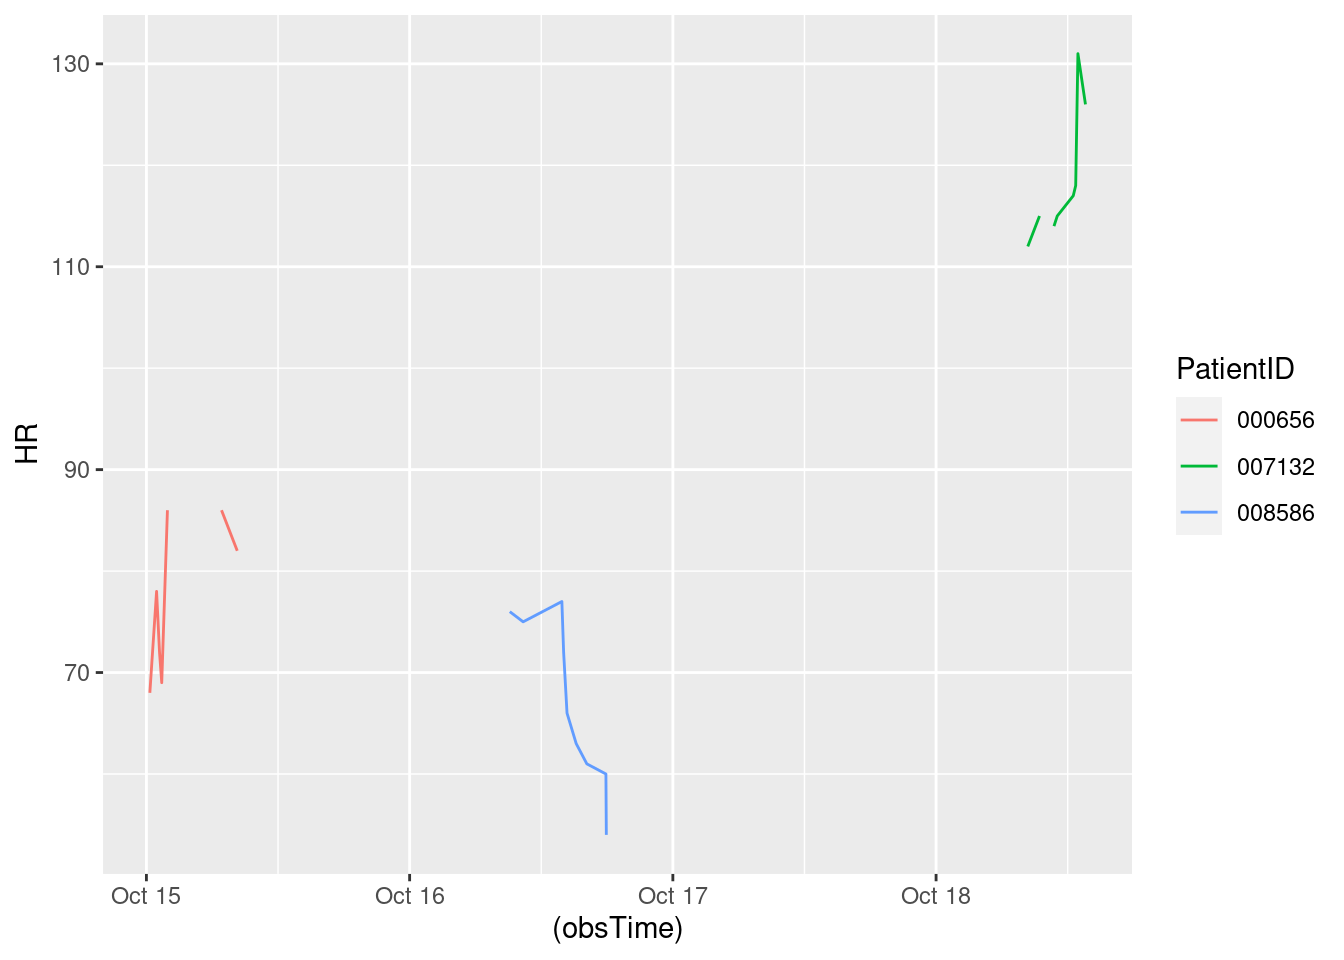
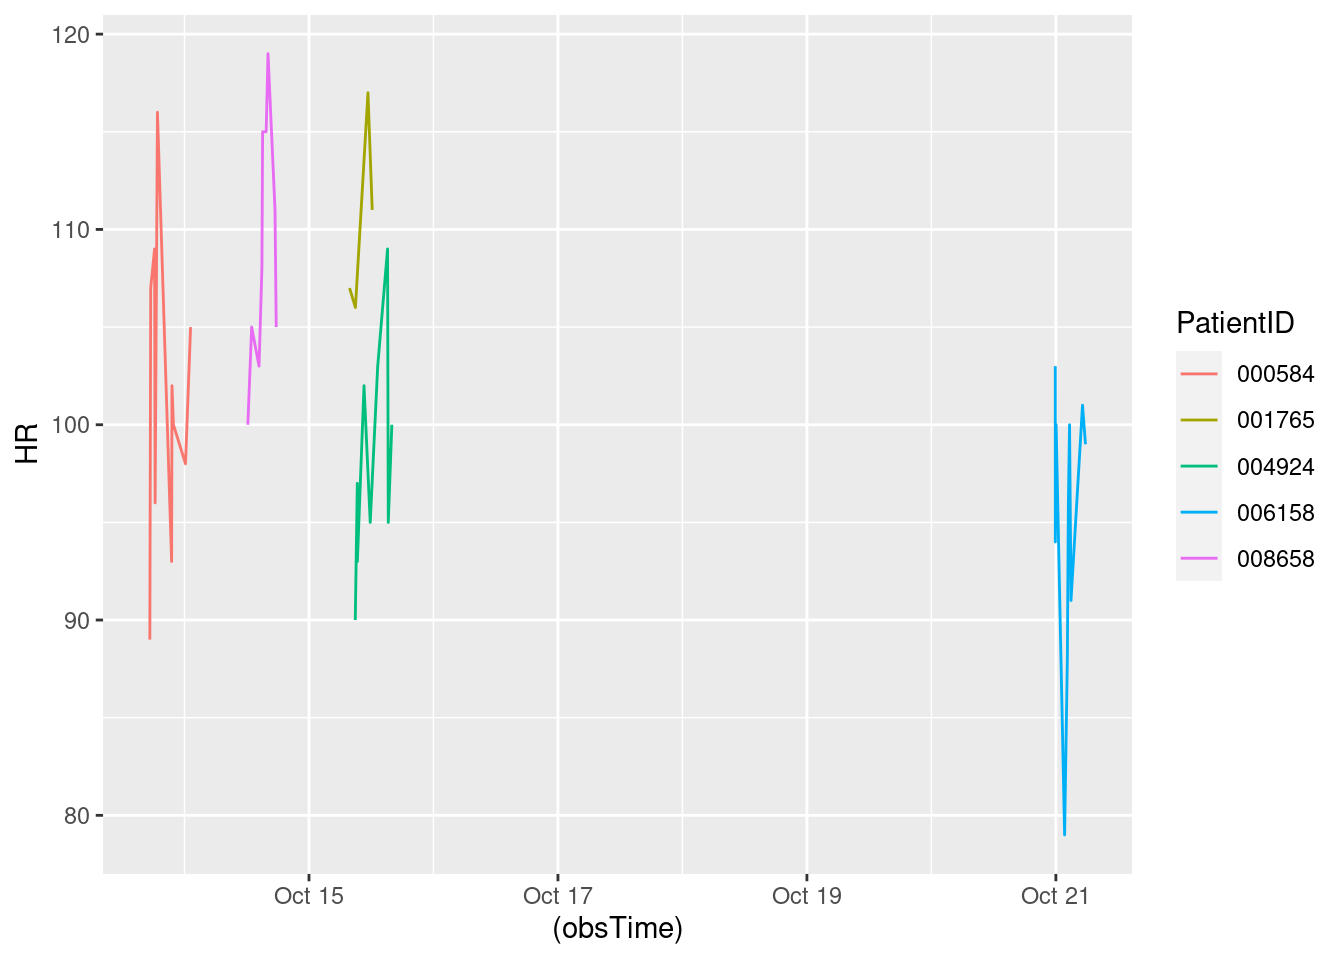
Updated report

diff --git a/HW7.html b/HW7.html
@@ -150,7 +150,7 @@ The following object is masked from 'package:purrr':
 </div>
 <div class="sourceCode cell-code" id="cb8"><pre class="sourceCode r code-with-copy"><code class="sourceCode r"><span id="cb8-1"><a href="#cb8-1" aria-hidden="true" tabindex="-1"></a><span class="fu">toc</span>()</span></code><button title="Copy to Clipboard" class="code-copy-button"><i class="bi"></i></button></pre></div>
 <div class="cell-output cell-output-stdout">
-<pre><code>3.267 sec elapsed</code></pre>
+<pre><code>3.334 sec elapsed</code></pre>
 </div>
 <div class="sourceCode cell-code" id="cb10"><pre class="sourceCode r code-with-copy"><code class="sourceCode r"><span id="cb10-1"><a href="#cb10-1" aria-hidden="true" tabindex="-1"></a><span class="fu">tic</span>()</span>
 <span id="cb10-2"><a href="#cb10-2" aria-hidden="true" tabindex="-1"></a>test1<span class="ot">=</span><span class="fu">makeSepsisDataset</span>(<span class="at">n=</span><span class="dv">50</span>,<span class="at">read_fn =</span> <span class="st">"read_delim"</span>)</span>
@@ -160,7 +160,7 @@ The following object is masked from 'package:purrr':
 </div>
 <div class="sourceCode cell-code" id="cb12"><pre class="sourceCode r code-with-copy"><code class="sourceCode r"><span id="cb12-1"><a href="#cb12-1" aria-hidden="true" tabindex="-1"></a><span class="fu">toc</span>()</span></code><button title="Copy to Clipboard" class="code-copy-button"><i class="bi"></i></button></pre></div>
 <div class="cell-output cell-output-stdout">
-<pre><code>12.358 sec elapsed</code></pre>
+<pre><code>13.487 sec elapsed</code></pre>
 </div>
 <div class="sourceCode cell-code" id="cb14"><pre class="sourceCode r code-with-copy"><code class="sourceCode r"><span id="cb14-1"><a href="#cb14-1" aria-hidden="true" tabindex="-1"></a><span class="fu">tic</span>()</span>
 <span id="cb14-2"><a href="#cb14-2" aria-hidden="true" tabindex="-1"></a>test1<span class="ot">=</span><span class="fu">makeSepsisDataset</span>(<span class="at">n=</span><span class="dv">100</span>,<span class="at">read_fn =</span> <span class="st">"fread"</span>)</span>
@@ -170,7 +170,7 @@ The following object is masked from 'package:purrr':
 </div>
 <div class="sourceCode cell-code" id="cb16"><pre class="sourceCode r code-with-copy"><code class="sourceCode r"><span id="cb16-1"><a href="#cb16-1" aria-hidden="true" tabindex="-1"></a><span class="fu">toc</span>()</span></code><button title="Copy to Clipboard" class="code-copy-button"><i class="bi"></i></button></pre></div>
 <div class="cell-output cell-output-stdout">
-<pre><code>5.415 sec elapsed</code></pre>
+<pre><code>5.951 sec elapsed</code></pre>
 </div>
 <div class="sourceCode cell-code" id="cb18"><pre class="sourceCode r code-with-copy"><code class="sourceCode r"><span id="cb18-1"><a href="#cb18-1" aria-hidden="true" tabindex="-1"></a><span class="fu">tic</span>()</span>
 <span id="cb18-2"><a href="#cb18-2" aria-hidden="true" tabindex="-1"></a>test1<span class="ot">=</span><span class="fu">makeSepsisDataset</span>(<span class="at">n=</span><span class="dv">100</span>,<span class="at">read_fn =</span> <span class="st">"read_delim"</span>)</span>
@@ -180,7 +180,7 @@ The following object is masked from 'package:purrr':
 </div>
 <div class="sourceCode cell-code" id="cb20"><pre class="sourceCode r code-with-copy"><code class="sourceCode r"><span id="cb20-1"><a href="#cb20-1" aria-hidden="true" tabindex="-1"></a><span class="fu">toc</span>()</span></code><button title="Copy to Clipboard" class="code-copy-button"><i class="bi"></i></button></pre></div>
 <div class="cell-output cell-output-stdout">
-<pre><code>20.785 sec elapsed</code></pre>
+<pre><code>23.078 sec elapsed</code></pre>
 </div>
 <div class="sourceCode cell-code" id="cb22"><pre class="sourceCode r code-with-copy"><code class="sourceCode r"><span id="cb22-1"><a href="#cb22-1" aria-hidden="true" tabindex="-1"></a><span class="fu">tic</span>()</span>
 <span id="cb22-2"><a href="#cb22-2" aria-hidden="true" tabindex="-1"></a>test1<span class="ot">=</span><span class="fu">makeSepsisDataset</span>(<span class="at">n=</span><span class="dv">500</span>,<span class="at">read_fn =</span> <span class="st">"fread"</span>)</span>
@@ -190,7 +190,7 @@ The following object is masked from 'package:purrr':
 </div>
 <div class="sourceCode cell-code" id="cb24"><pre class="sourceCode r code-with-copy"><code class="sourceCode r"><span id="cb24-1"><a href="#cb24-1" aria-hidden="true" tabindex="-1"></a><span class="fu">toc</span>()</span></code><button title="Copy to Clipboard" class="code-copy-button"><i class="bi"></i></button></pre></div>
 <div class="cell-output cell-output-stdout">
-<pre><code>27.325 sec elapsed</code></pre>
+<pre><code>29.471 sec elapsed</code></pre>
 </div>
 <div class="sourceCode cell-code" id="cb26"><pre class="sourceCode r code-with-copy"><code class="sourceCode r"><span id="cb26-1"><a href="#cb26-1" aria-hidden="true" tabindex="-1"></a><span class="fu">tic</span>()</span>
 <span id="cb26-2"><a href="#cb26-2" aria-hidden="true" tabindex="-1"></a>test1<span class="ot">=</span><span class="fu">makeSepsisDataset</span>(<span class="at">n=</span><span class="dv">500</span>,<span class="at">read_fn =</span> <span class="st">"read_delim"</span>)</span>
@@ -200,7 +200,7 @@ The following object is masked from 'package:purrr':
 </div>
 <div class="sourceCode cell-code" id="cb28"><pre class="sourceCode r code-with-copy"><code class="sourceCode r"><span id="cb28-1"><a href="#cb28-1" aria-hidden="true" tabindex="-1"></a><span class="fu">toc</span>()</span></code><button title="Copy to Clipboard" class="code-copy-button"><i class="bi"></i></button></pre></div>
 <div class="cell-output cell-output-stdout">
-<pre><code>103.197 sec elapsed</code></pre>
+<pre><code>116.292 sec elapsed</code></pre>
 </div>
 </div>
 <p>Problem 3: Speed reading</p>
@@ -242,7 +242,7 @@ dttm (1): obsTime
 <div class="sourceCode cell-code" id="cb35"><pre class="sourceCode r code-with-copy"><code class="sourceCode r"><span id="cb35-1"><a href="#cb35-1" aria-hidden="true" tabindex="-1"></a><span class="co">#Sys.Date()</span></span>
 <span id="cb35-2"><a href="#cb35-2" aria-hidden="true" tabindex="-1"></a><span class="fu">Sys.time</span>()</span></code><button title="Copy to Clipboard" class="code-copy-button"><i class="bi"></i></button></pre></div>
 <div class="cell-output cell-output-stdout">
-<pre><code>[1] "2023-10-13 16:25:02 UTC"</code></pre>
+<pre><code>[1] "2023-10-13 17:19:13 UTC"</code></pre>
 </div>
 <div class="sourceCode cell-code" id="cb37"><pre class="sourceCode r code-with-copy"><code class="sourceCode r"><span id="cb37-1"><a href="#cb37-1" aria-hidden="true" tabindex="-1"></a>dfnew<span class="ot">=</span>df <span class="sc">%&gt;%</span><span class="fu">subset</span>(SepsisLabel<span class="sc">==</span><span class="dv">1</span>)</span>
 <span id="cb37-2"><a href="#cb37-2" aria-hidden="true" tabindex="-1"></a></span>
@@ -257,18 +257,23 @@ dttm (1): obsTime
 <span id="cb37-11"><a href="#cb37-11" aria-hidden="true" tabindex="-1"></a></span>
 <span id="cb37-12"><a href="#cb37-12" aria-hidden="true" tabindex="-1"></a><span class="fu">print</span>(res)</span></code><button title="Copy to Clipboard" class="code-copy-button"><i class="bi"></i></button></pre></div>
 <div class="cell-output cell-output-stdout">
-<pre><code># A tibble: 3 × 7
-# Groups:   PatientID [3]
+<pre><code># A tibble: 5 × 7
+# Groups:   PatientID [5]
   PatientID ICULOS    HR  Temp  Resp SepsisLabel obsTime            
   &lt;chr&gt;      &lt;int&gt; &lt;int&gt; &lt;dbl&gt; &lt;int&gt;       &lt;int&gt; &lt;dttm&gt;             
-1 000656        40    82  NA      17           1 2023-10-15 08:16:56
-2 007132       120   126  NA      16           1 2023-10-18 13:37:13
-3 008586        75    54  36.3    21           1 2023-10-16 17:56:01</code></pre>
+1 000584         9   105  36.8    21           1 2023-10-14 01:10:33
+2 001765        43   111  36.3    21           1 2023-10-15 12:11:29
+3 004924        48   100  NA      28           1 2023-10-15 15:58:25
+4 006158       181    99  NA      19           1 2023-10-21 05:42:20
+5 008658        25   105  NA      31           1 2023-10-14 17:41:06</code></pre>
 </div>
 </div>
 <div class="cell">
 <div class="sourceCode cell-code" id="cb39"><pre class="sourceCode r code-with-copy"><code class="sourceCode r"><span id="cb39-1"><a href="#cb39-1" aria-hidden="true" tabindex="-1"></a>dfnew <span class="sc">%&gt;%</span></span>
 <span id="cb39-2"><a href="#cb39-2" aria-hidden="true" tabindex="-1"></a>  <span class="fu">ggplot</span>()<span class="sc">+</span><span class="fu">geom_line</span>(<span class="fu">aes</span>(<span class="at">y=</span>HR,<span class="at">x=</span>(obsTime),<span class="at">color=</span>PatientID))</span></code><button title="Copy to Clipboard" class="code-copy-button"><i class="bi"></i></button></pre></div>
+<div class="cell-output cell-output-stderr">
+<pre><code>Warning: Removed 6 rows containing missing values (`geom_line()`).</code></pre>
+</div>
 <div class="cell-output-display">
 <p><img src="HW7_files/figure-html/unnamed-chunk-6-1.png" class="img-fluid" width="672"></p>
 </div>
@@ -277,7 +282,7 @@ dttm (1): obsTime
 <section id="display-the-most-recent-data" class="level2">
 <h2 class="anchored" data-anchor-id="display-the-most-recent-data">Display the most recent data</h2>
 <div class="cell">
-<div class="sourceCode cell-code" id="cb40"><pre class="sourceCode r code-with-copy"><code class="sourceCode r"><span id="cb40-1"><a href="#cb40-1" aria-hidden="true" tabindex="-1"></a>most_recent_data</span></code><button title="Copy to Clipboard" class="code-copy-button"><i class="bi"></i></button></pre></div>
+<div class="sourceCode cell-code" id="cb41"><pre class="sourceCode r code-with-copy"><code class="sourceCode r"><span id="cb41-1"><a href="#cb41-1" aria-hidden="true" tabindex="-1"></a>most_recent_data</span></code><button title="Copy to Clipboard" class="code-copy-button"><i class="bi"></i></button></pre></div>
 <div class="cell-output cell-output-stdout">
 <pre><code># A tibble: 50 × 7
 # Groups:   PatientID [50]
@@ -300,32 +305,32 @@ dttm (1): obsTime
 <section id="calculate-the-difference" class="level2">
 <h2 class="anchored" data-anchor-id="calculate-the-difference">Calculate the difference</h2>
 <div class="cell">
-<div class="sourceCode cell-code" id="cb42"><pre class="sourceCode r code-with-copy"><code class="sourceCode r"><span id="cb42-1"><a href="#cb42-1" aria-hidden="true" tabindex="-1"></a><span class="fu">library</span>(dplyr)</span>
-<span id="cb42-2"><a href="#cb42-2" aria-hidden="true" tabindex="-1"></a><span class="fu">library</span>(tidyr)</span>
-<span id="cb42-3"><a href="#cb42-3" aria-hidden="true" tabindex="-1"></a><span class="fu">library</span>(knitr)</span>
-<span id="cb42-4"><a href="#cb42-4" aria-hidden="true" tabindex="-1"></a>get_observation_data <span class="ot">&lt;-</span> <span class="cf">function</span>(data, n, column_suffix) {</span>
-<span id="cb42-5"><a href="#cb42-5" aria-hidden="true" tabindex="-1"></a>  data <span class="sc">%&gt;%</span></span>
-<span id="cb42-6"><a href="#cb42-6" aria-hidden="true" tabindex="-1"></a>    <span class="fu">group_by</span>(PatientID) <span class="sc">%&gt;%</span></span>
-<span id="cb42-7"><a href="#cb42-7" aria-hidden="true" tabindex="-1"></a>    <span class="fu">slice_max</span>(<span class="at">order_by =</span> obsTime, <span class="at">n =</span> n) <span class="sc">%&gt;%</span></span>
-<span id="cb42-8"><a href="#cb42-8" aria-hidden="true" tabindex="-1"></a>    <span class="fu">select</span>(<span class="sc">-</span><span class="fu">c</span>(ICULOS, SepsisLabel, obsTime)) <span class="sc">%&gt;%</span></span>
-<span id="cb42-9"><a href="#cb42-9" aria-hidden="true" tabindex="-1"></a>    <span class="fu">rename_at</span>(<span class="fu">vars</span>(HR, Temp, Resp),</span>
-<span id="cb42-10"><a href="#cb42-10" aria-hidden="true" tabindex="-1"></a>              <span class="fu">list</span>(<span class="sc">~</span><span class="fu">paste0</span>(., <span class="st">"_"</span>, column_suffix)))</span>
-<span id="cb42-11"><a href="#cb42-11" aria-hidden="true" tabindex="-1"></a>}</span>
-<span id="cb42-12"><a href="#cb42-12" aria-hidden="true" tabindex="-1"></a></span>
-<span id="cb42-13"><a href="#cb42-13" aria-hidden="true" tabindex="-1"></a></span>
-<span id="cb42-14"><a href="#cb42-14" aria-hidden="true" tabindex="-1"></a></span>
-<span id="cb42-15"><a href="#cb42-15" aria-hidden="true" tabindex="-1"></a></span>
-<span id="cb42-16"><a href="#cb42-16" aria-hidden="true" tabindex="-1"></a>last_obs <span class="ot">&lt;-</span> <span class="fu">get_observation_data</span>(new_data, <span class="dv">1</span>, <span class="st">"last"</span>)</span>
-<span id="cb42-17"><a href="#cb42-17" aria-hidden="true" tabindex="-1"></a>penultimate_obs <span class="ot">&lt;-</span> <span class="fu">get_observation_data</span>(new_data, <span class="dv">2</span>, <span class="st">"penult"</span>)</span>
-<span id="cb42-18"><a href="#cb42-18" aria-hidden="true" tabindex="-1"></a>joined_data <span class="ot">&lt;-</span> <span class="fu">full_join</span>(last_obs, penultimate_obs) <span class="sc">%&gt;%</span></span>
-<span id="cb42-19"><a href="#cb42-19" aria-hidden="true" tabindex="-1"></a>  <span class="fu">transmute</span>(PatientID,</span>
-<span id="cb42-20"><a href="#cb42-20" aria-hidden="true" tabindex="-1"></a>            <span class="st">`</span><span class="at">Temperature change</span><span class="st">`</span> <span class="ot">=</span> Temp_last <span class="sc">-</span> Temp_penult,</span>
-<span id="cb42-21"><a href="#cb42-21" aria-hidden="true" tabindex="-1"></a>            <span class="st">`</span><span class="at">Heart rate change</span><span class="st">`</span> <span class="ot">=</span> HR_last <span class="sc">-</span> HR_penult,</span>
-<span id="cb42-22"><a href="#cb42-22" aria-hidden="true" tabindex="-1"></a>            <span class="st">`</span><span class="at">Respiratory rate change</span><span class="st">`</span> <span class="ot">=</span> Resp_last <span class="sc">-</span> Resp_penult)</span></code><button title="Copy to Clipboard" class="code-copy-button"><i class="bi"></i></button></pre></div>
+<div class="sourceCode cell-code" id="cb43"><pre class="sourceCode r code-with-copy"><code class="sourceCode r"><span id="cb43-1"><a href="#cb43-1" aria-hidden="true" tabindex="-1"></a><span class="fu">library</span>(dplyr)</span>
+<span id="cb43-2"><a href="#cb43-2" aria-hidden="true" tabindex="-1"></a><span class="fu">library</span>(tidyr)</span>
+<span id="cb43-3"><a href="#cb43-3" aria-hidden="true" tabindex="-1"></a><span class="fu">library</span>(knitr)</span>
+<span id="cb43-4"><a href="#cb43-4" aria-hidden="true" tabindex="-1"></a>get_observation_data <span class="ot">&lt;-</span> <span class="cf">function</span>(data, n, column_suffix) {</span>
+<span id="cb43-5"><a href="#cb43-5" aria-hidden="true" tabindex="-1"></a>  data <span class="sc">%&gt;%</span></span>
+<span id="cb43-6"><a href="#cb43-6" aria-hidden="true" tabindex="-1"></a>    <span class="fu">group_by</span>(PatientID) <span class="sc">%&gt;%</span></span>
+<span id="cb43-7"><a href="#cb43-7" aria-hidden="true" tabindex="-1"></a>    <span class="fu">slice_max</span>(<span class="at">order_by =</span> obsTime, <span class="at">n =</span> n) <span class="sc">%&gt;%</span></span>
+<span id="cb43-8"><a href="#cb43-8" aria-hidden="true" tabindex="-1"></a>    <span class="fu">select</span>(<span class="sc">-</span><span class="fu">c</span>(ICULOS, SepsisLabel, obsTime)) <span class="sc">%&gt;%</span></span>
+<span id="cb43-9"><a href="#cb43-9" aria-hidden="true" tabindex="-1"></a>    <span class="fu">rename_at</span>(<span class="fu">vars</span>(HR, Temp, Resp),</span>
+<span id="cb43-10"><a href="#cb43-10" aria-hidden="true" tabindex="-1"></a>              <span class="fu">list</span>(<span class="sc">~</span><span class="fu">paste0</span>(., <span class="st">"_"</span>, column_suffix)))</span>
+<span id="cb43-11"><a href="#cb43-11" aria-hidden="true" tabindex="-1"></a>}</span>
+<span id="cb43-12"><a href="#cb43-12" aria-hidden="true" tabindex="-1"></a></span>
+<span id="cb43-13"><a href="#cb43-13" aria-hidden="true" tabindex="-1"></a></span>
+<span id="cb43-14"><a href="#cb43-14" aria-hidden="true" tabindex="-1"></a></span>
+<span id="cb43-15"><a href="#cb43-15" aria-hidden="true" tabindex="-1"></a></span>
+<span id="cb43-16"><a href="#cb43-16" aria-hidden="true" tabindex="-1"></a>last_obs <span class="ot">&lt;-</span> <span class="fu">get_observation_data</span>(new_data, <span class="dv">1</span>, <span class="st">"last"</span>)</span>
+<span id="cb43-17"><a href="#cb43-17" aria-hidden="true" tabindex="-1"></a>penultimate_obs <span class="ot">&lt;-</span> <span class="fu">get_observation_data</span>(new_data, <span class="dv">2</span>, <span class="st">"penult"</span>)</span>
+<span id="cb43-18"><a href="#cb43-18" aria-hidden="true" tabindex="-1"></a>joined_data <span class="ot">&lt;-</span> <span class="fu">full_join</span>(last_obs, penultimate_obs) <span class="sc">%&gt;%</span></span>
+<span id="cb43-19"><a href="#cb43-19" aria-hidden="true" tabindex="-1"></a>  <span class="fu">transmute</span>(PatientID,</span>
+<span id="cb43-20"><a href="#cb43-20" aria-hidden="true" tabindex="-1"></a>            <span class="st">`</span><span class="at">Temperature change</span><span class="st">`</span> <span class="ot">=</span> Temp_last <span class="sc">-</span> Temp_penult,</span>
+<span id="cb43-21"><a href="#cb43-21" aria-hidden="true" tabindex="-1"></a>            <span class="st">`</span><span class="at">Heart rate change</span><span class="st">`</span> <span class="ot">=</span> HR_last <span class="sc">-</span> HR_penult,</span>
+<span id="cb43-22"><a href="#cb43-22" aria-hidden="true" tabindex="-1"></a>            <span class="st">`</span><span class="at">Respiratory rate change</span><span class="st">`</span> <span class="ot">=</span> Resp_last <span class="sc">-</span> Resp_penult)</span></code><button title="Copy to Clipboard" class="code-copy-button"><i class="bi"></i></button></pre></div>
 <div class="cell-output cell-output-stderr">
 <pre><code>Joining with `by = join_by(PatientID)`</code></pre>
 </div>
-<div class="sourceCode cell-code" id="cb44"><pre class="sourceCode r code-with-copy"><code class="sourceCode r"><span id="cb44-1"><a href="#cb44-1" aria-hidden="true" tabindex="-1"></a><span class="fu">kable</span>(joined_data, <span class="at">caption =</span> <span class="st">"Patients' Recent Changes in Vital Stats"</span>)</span></code><button title="Copy to Clipboard" class="code-copy-button"><i class="bi"></i></button></pre></div>
+<div class="sourceCode cell-code" id="cb45"><pre class="sourceCode r code-with-copy"><code class="sourceCode r"><span id="cb45-1"><a href="#cb45-1" aria-hidden="true" tabindex="-1"></a><span class="fu">kable</span>(joined_data, <span class="at">caption =</span> <span class="st">"Patients' Recent Changes in Vital Stats"</span>)</span></code><button title="Copy to Clipboard" class="code-copy-button"><i class="bi"></i></button></pre></div>
 <div class="cell-output-display">
 <table class="table table-sm table-striped small">
 <caption>Patients’ Recent Changes in Vital Stats</caption>
